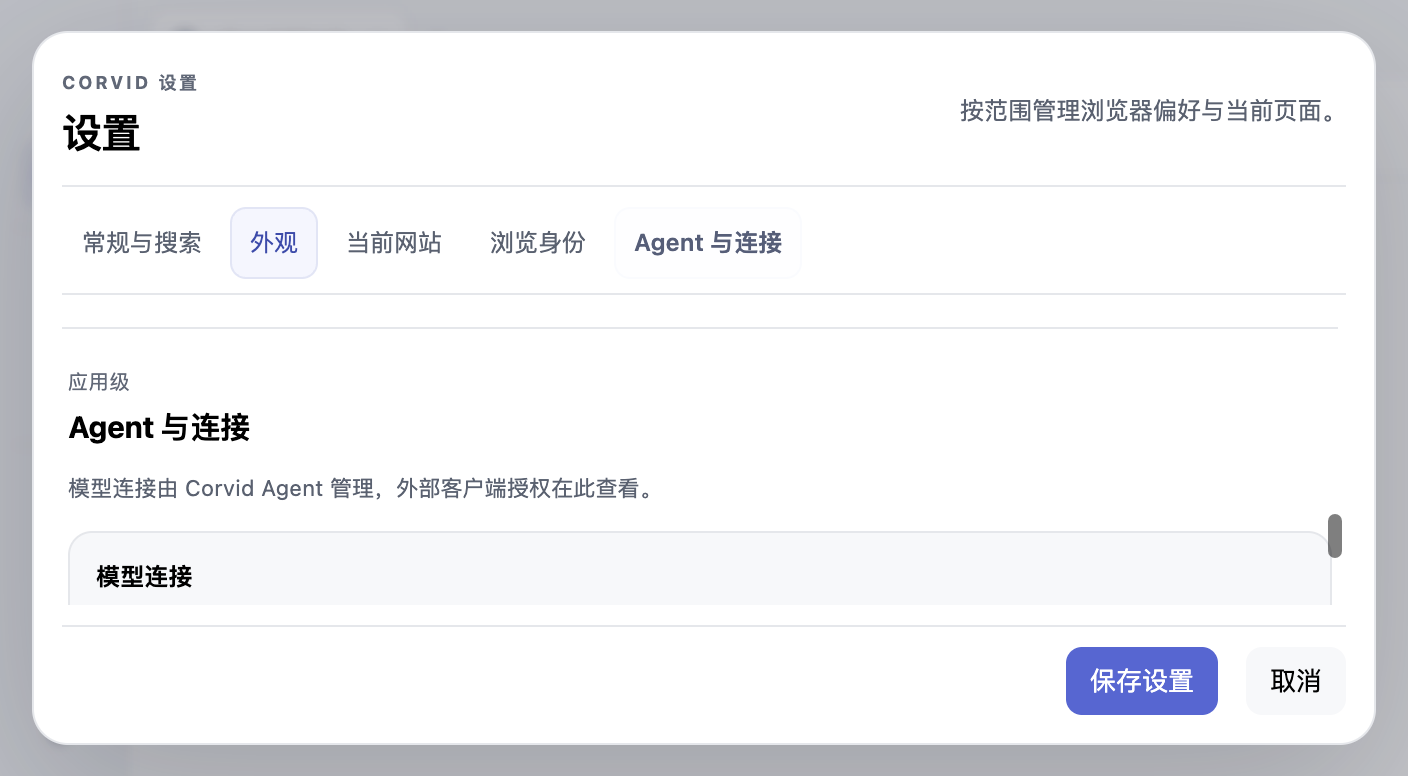
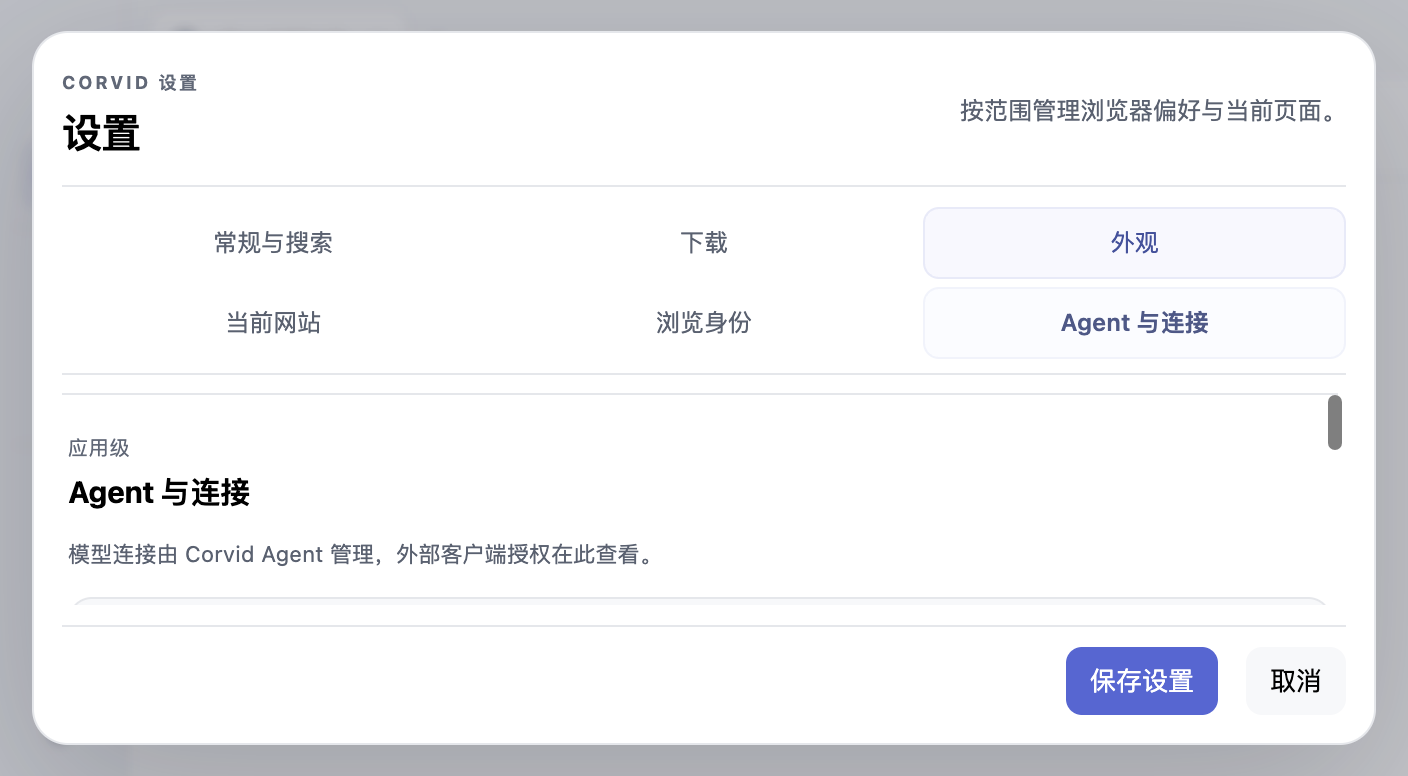
更新设置中心主线复验与界面证据

diff --git a/docs/qa/ui-visual-check.md b/docs/qa/ui-visual-check.md
@@ -115,6 +115,7 @@
 - 环境与状态：macOS 本机真实 Electron，窗口分别为 1024×700 与 700×420 CSS 像素，使用隔离 `CORVID_DATA_DIR` 和 `about:blank`，没有个人网页、账号或凭据。前后截图：旧长表单[中文 1024×700](screenshots/corvid-localization-zh-CN-settings-1024x700.png)，新设置中心[中文 1024×700](screenshots/issue-165-settings-zh-CN-1024x700.png)、[中文 700×420](screenshots/issue-165-settings-zh-CN-700x420.png)、[英文 1024×700](screenshots/issue-165-settings-en-1024x700.png)、[英文 700×420](screenshots/issue-165-settings-en-700x420.png)。新图由本轮隔离 E2E 生成，供 PR 审阅。
 - 视觉判断：常规窗口采用窄分类导航加单一内容区，标题、作用范围标签与说明形成层级，底部操作固定；主题沿用 Corvid 既有表面与文字 token，未增加装饰动画。窄窗将分类导航移到内容上方，并仅滚动设置内容，保留保存/取消操作可见。验收重点为 700×420 下导航不挤压表单、较长的 Profile/站点内容可滚动且操作区不被遮挡；英文长文案与当前网站无可用来源状态也需检查。
 - UI/UE 参考与 REA 证据：EasyUI `https://easyui.site/` 首页，Chromium 156.0.8078.79，1280×900，`en-US`、浅色、减少动态效果；REA Evidence `ev_d2996c2ec957254fbbdaf189ae26cd41f3bf738048af3abad217259da86f4755`，观察日期 2026-11-03（采集时刻未保留）。**直接观察**：AX 树显示独立命名的主导航、Home/Components/Sponsors 导航项、独立组件搜索与主题切换按钮，以及组件预览加载中的 `status`。**静态证据**：本轮未检查其站点源码或脚本。**推断**：将导航、搜索和内容状态明确命名有助于设置页定位；这不证明该页面具备设置交互，也不构成三栏布局要求。**未知与限制**：没有操作控件，未检查键盘路径、窄窗、焦点、错误/空态或过渡行为；页面预览状态为加载中，不能据此评价完整组件行为。Corvid 保持自己的双栏结构、状态文案和视觉 token，未复制组件、样式或素材。
+- 补充参考：Aceternity UI Grouped Sidebar（`https://ui.aceternity.com/blocks/sidebars/grouped-sidebar`），REA controlled replay，Evidence `ev_ebf975bd570dbe44f649677ff4df073cb74ff0afc275ae21c1e699336ecbb7bb`，观察日期 2026-11-04；Chromium 156.0.8078.79、临时 profile、1280×900、浅色、`en-US`、减少动态效果。**直接观察**：可访问性树列出主导航及 Content/Team/Settings 分组，Settings 下显示 General/Security/API Keys 子项；页面组件说明描述展开状态、持久化和宽/窄侧栏尺寸。**静态证据**：未检查源码。**推断**：稳定的分区命名与明确选中状态适用于设置分类定位，因此 Corvid 保留单层分类导航和选中反馈；不采用可折叠分组或尺寸。**未知与限制**：没有点击或键盘操作该组件；REA 未验证持久化声明、动画、焦点、窄窗或错误态。参考站点只提供交互灵感，未复制代码、样式或素材。
 - 范围与限制：本切片只重组已经存在的语言、搜索、Profile 导入/扩展、Agent 连接及站点权限/数据入口，并新增应用级主题选择；启动/新标签和下载偏好仍未实现。截图只证明上述隔离数据与两个窗口尺寸下的视觉状态，不证明站点操作完整往返、全产品键盘流程、屏幕阅读器或 Windows/Linux/打包版表现。
 
 ### Issue #165 启动与下载偏好增量

diff --git a/docs/reviews/verification-log.md b/docs/reviews/verification-log.md
@@ -170,6 +170,13 @@
 - 原生 macOS 复核：使用隔离临时数据启动 Electron，以 `System Events` 在真实“窗口”菜单中双向选择窗口，分别读取 `AXMenuItemMarkChar` 勾选与 Corvid `/windows` 焦点 ID；两个方向均一致。人工诊断脚本在菜单仍打开时由 `closeElectron` 超时后结束了本轮自启进程，但在退出前已读完证据；随后检查无残留 Electron。REA `observe_native_ui` 仍因 provider 无法读取进程启动时间而 `capability_unavailable`；此处不宣称 REA 原生观察。
 - 全量回归边界：首次 `npm test` 曾在全屏测试的异步最大化断言失败，已由 [Issue #168](https://github.com/heyallencao/corvid/issues/168) 修正为等待原窗口恢复；后续完整运行已通过该测试，继续在 #5 的 `pi-workbench-e2e.cjs:99` 超时，见上方 #168 记录，不计入 #162 菜单 E2E 失败。
 - 未覆盖与限制：全套 `npm test`、VoiceOver、Windows/Linux、打包版、真实鼠标截图/像素与其他系统语言设置尚未完成；网页菜单的 EasyUI REA Evidence 只提供交互分组参考，不是系统菜单验收依据。本次未调用 OAuth 或真实模型。
+## 2026-11-04 设置中心 PR 重放与定向复验（Issue #165）
+
+- 基线处理：将设置中心分支重放到最新 `origin/main`，保留主线 Agent 消息队列合同，并把设置偏好/当前网站两项 E2E 追加至 `npm test` 和索引；索引现含 63 项入口、7 个 `node:test` 文件（28 项）及 57 条独立脚本命令。
+- 定向验证：使用隔离临时数据目录与 macOS Electron，`NODE_PATH=/Users/allen/Workspace/projects/personal/corvid/node_modules env -u ELECTRON_RUN_AS_NODE CORVID_CAPTURE_QA_SCREENSHOTS=1 node tests/settings-preferences-e2e.cjs` 与 `... node tests/settings-site-e2e.cjs` 均通过；覆盖设置迁移/保存/启动与下载合同、站点来源及权限/数据取消与确认，生成双语常规、窄窗截图。`node --check desktop/main.cjs`、`node --check desktop/renderer.js`、`node --check desktop/locales.js` 与 `git diff --check` 通过。
+- 非设置路径限制：同一轮 `tests/localization-e2e.cjs` 在 `.pi-model-manage` 定位处 30 秒超时，尚未执行到设置合同；该入口属于另一个 Agent 工作台变化，本 PR 不修改其实现。全量 `npm test` 未执行，不能宣称全量通过。
+- 视觉参考：REA controlled replay 观察 Aceternity UI Grouped Sidebar，Evidence `ev_ebf975bd570dbe44f649677ff4df073cb74ff0afc275ae21c1e699336ecbb7bb`；直接观察到可访问树中的分组/子项及页面尺寸说明，但没有操作控件。它只用于设置分类命名与选中状态的参考评估；Corvid 未复制代码/样式。运行时与未知范围见[视觉检查记录](../qa/ui-visual-check.md#2026-11-03-设置中心首个切片-issue-165)。
+
 ## 2026-11-03 浏览器设置中心首个切片（Issue #165）
 
 - 实现：隔离 Electron 设置中心按常规/搜索、下载、外观、当前网站、浏览身份、Agent/连接分组；应用级主题、启动恢复/新标签、起始页/空白页、下载目录与询问偏好统一写入 `browser-preferences.json` schemaVersion 2（0600，原子替换），兼容迁移只含主题的 schemaVersion 1。网站无 HTTP(S) 来源时站点操作禁用；导航焦点与设置内容滚动已有双语回归。启动与下载偏好行为已由独立 Electron E2E 验收，合同见[执行说明](../execution/issue-165-settings-center.md)。

diff --git a/docs/execution/issue-165-settings-center.md b/docs/execution/issue-165-settings-center.md
@@ -20,7 +20,7 @@
 
 ## 验收
 
-- 已有 `tests/localization-e2e.cjs` 检查首个设置切片的 zh-CN/en 资源、分类选择与焦点、无当前网页时站点操作禁用、主题即时应用、0600 持久化和重启恢复。
+- 首个设置切片的 `tests/localization-e2e.cjs` 曾检查 zh-CN/en 资源、分类选择与焦点、无当前网页时站点操作禁用、主题即时应用、0600 持久化和重启恢复。重放至当前主线后复跑该脚本，在 Agent 模型管理入口 `.pi-model-manage` 等待超时，尚未到达设置断言；这是前置工作台路径回归，不能记作本次设置验收通过。
 - `env -u ELECTRON_RUN_AS_NODE CORVID_CAPTURE_QA_SCREENSHOTS=1 node tests/settings-preferences-e2e.cjs` 已通过，覆盖 schemaVersion 1 迁移、设置保存/重启、空白页注入开关、启动新标签复用、下载取消与自动保存、失效目录中英文错误，以及 700×420 设置布局；更新的中英文截图见[视觉检查记录](../qa/ui-visual-check.md)。
 - `env -u ELECTRON_RUN_AS_NODE CORVID_CAPTURE_QA_SCREENSHOTS=1 node tests/settings-site-e2e.cjs` 已通过：空白页禁用站点操作；活动 HTTP(S) 来源显示与操作启用；合成通知权限获准后可在设置中取消审查并保留授权、确认撤销；取消站点数据清理保持 fixture localStorage，确认后清除且不改变独立权限；确认默认选择为非破坏项；语言切换后动态来源仍正确。Electron 权限/清理确认框用替身控制结果。测试截图在 700×420 需滚动内容区，并验证范围说明、当前来源、两个操作按钮及固定底部动作可完整显示。
 - 系统文件夹/保存对话框由测试替身覆盖；真实桌面对话框还需单独验收。
@@ -31,4 +31,4 @@
 
 ## UI/UE 参考
 
-本切片采用 EasyUI 首页的信息分区和可访问状态表达作为有限参考，REA Evidence 与观察/推断/未知边界见[视觉检查记录](../qa/ui-visual-check.md#2026-11-03-设置中心首个切片-issue-165)。该参考不是设置产品要求；Corvid 保留自身品牌、组件和交互合同。
+本切片参考 EasyUI 首页的信息分区与可访问状态表达，并检查 Aceternity UI Grouped Sidebar 页面上的分组导航与选中状态，REA Evidence、观察时间及证据边界见[视觉检查记录](../qa/ui-visual-check.md#2026-11-03-设置中心首个切片-issue-165)。两者只提供有限的分区/状态灵感，不构成设置产品要求；Corvid 保留自身品牌、组件和交互合同。

diff --git a/docs/qa/e2e-suites.md b/docs/qa/e2e-suites.md
@@ -2,6 +2,7 @@
 
 本索引覆盖 `tests/` 下 72 项入口，其中 `tests/pi-real-model-smoke.cjs` 为需显式运行的真实模型验收，不属于 `npm test`。当前 `npm test` 配置包含 1 条 `node --test` 命令（8 个文件、31 个 `node:test` 用例）和 63 条独立脚本命令，共 94 项自动化检查；原生菜单与 Chrome 导入类别隔离模块合同见 `tests/application-menu.test.mjs`、`tests/chrome-import-categories.test.mjs`。索引中的序号按 `package.json` 的 test 脚本顺序排列。除 `tests/recovery-e2e.cjs`（预期启动失败）、`tests/agent-runtime-contract-e2e.cjs`、`tests/agent-task-continuation-contract.cjs`、`tests/agent-message-queue-contract.cjs`、`tests/profile-deletion-services.cjs`（隔离数据目录的模块合同测试）和 `tests/electron-startup.e2e.mjs`（启动/清理诊断替身）外，每项都会启动真实 Electron；`tests/sdk-e2e.cjs` 先启动桌面，再运行 `sdk/e2e.js`。结果记录见 [验证记录](../reviews/verification-log.md)，各工作块的验收合同见 [执行任务板](../execution/feature-board.md)。
 
+
 ## 共同前提与限制
 
 - 环境：本机 macOS、Electron 45.2.1、Node.js v24.14.1；Issue #113 多窗口同步修正后，2026-11-03 连续两轮全量串行回归均退出码 0，每轮 45 条独立脚本命令 + 3 个 `node:test` 用例，共 48 项。
